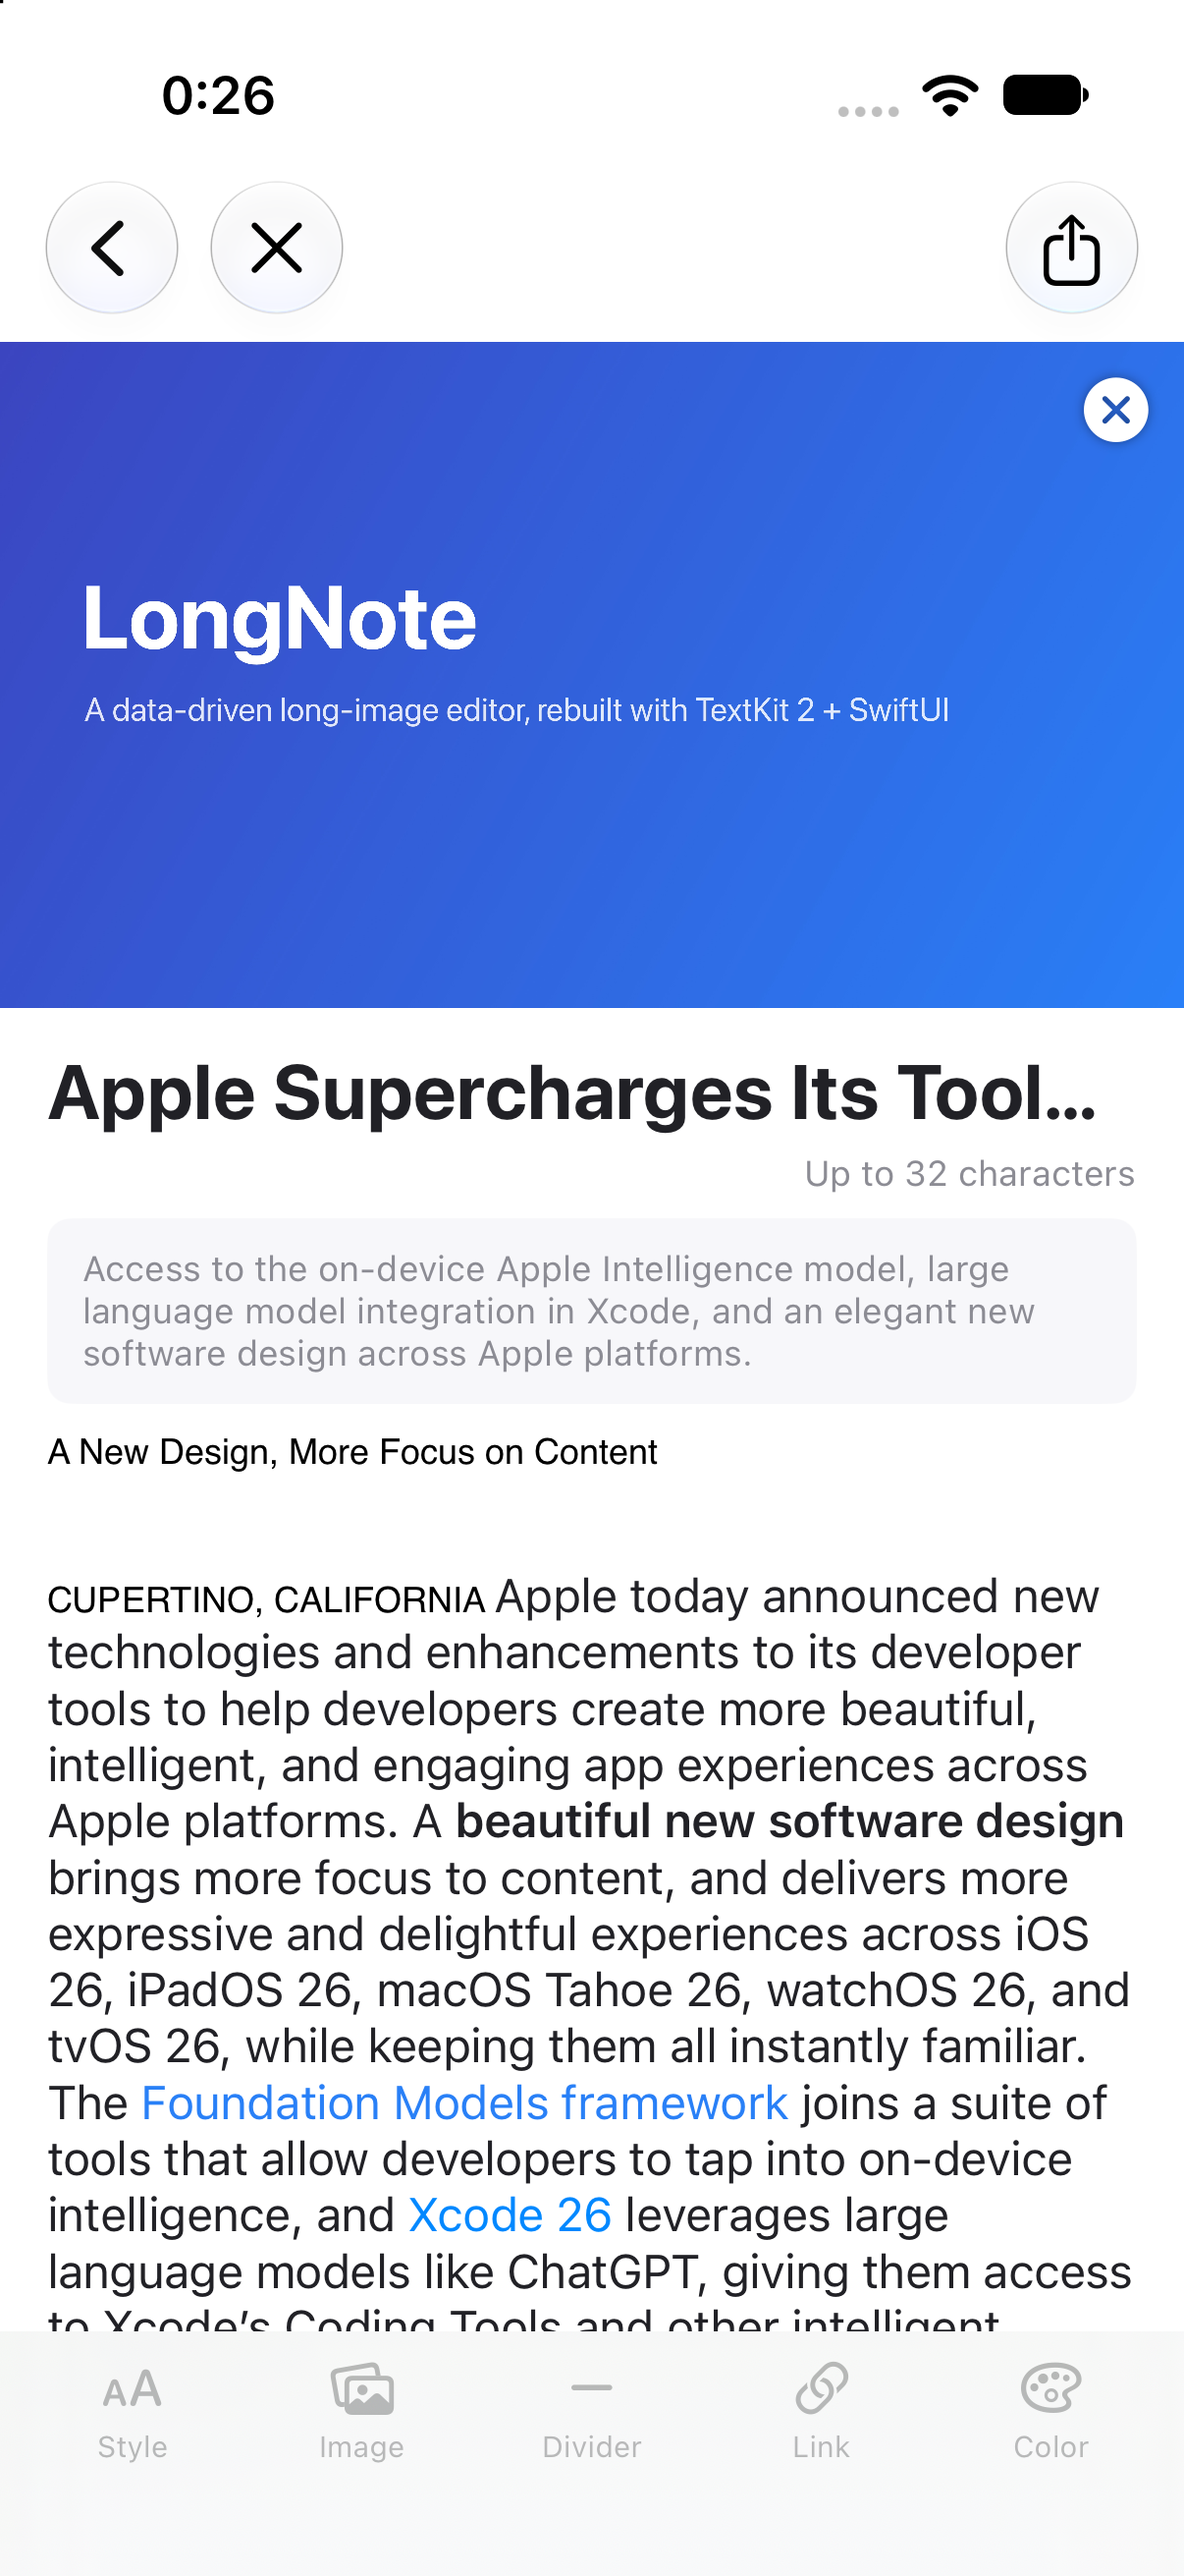
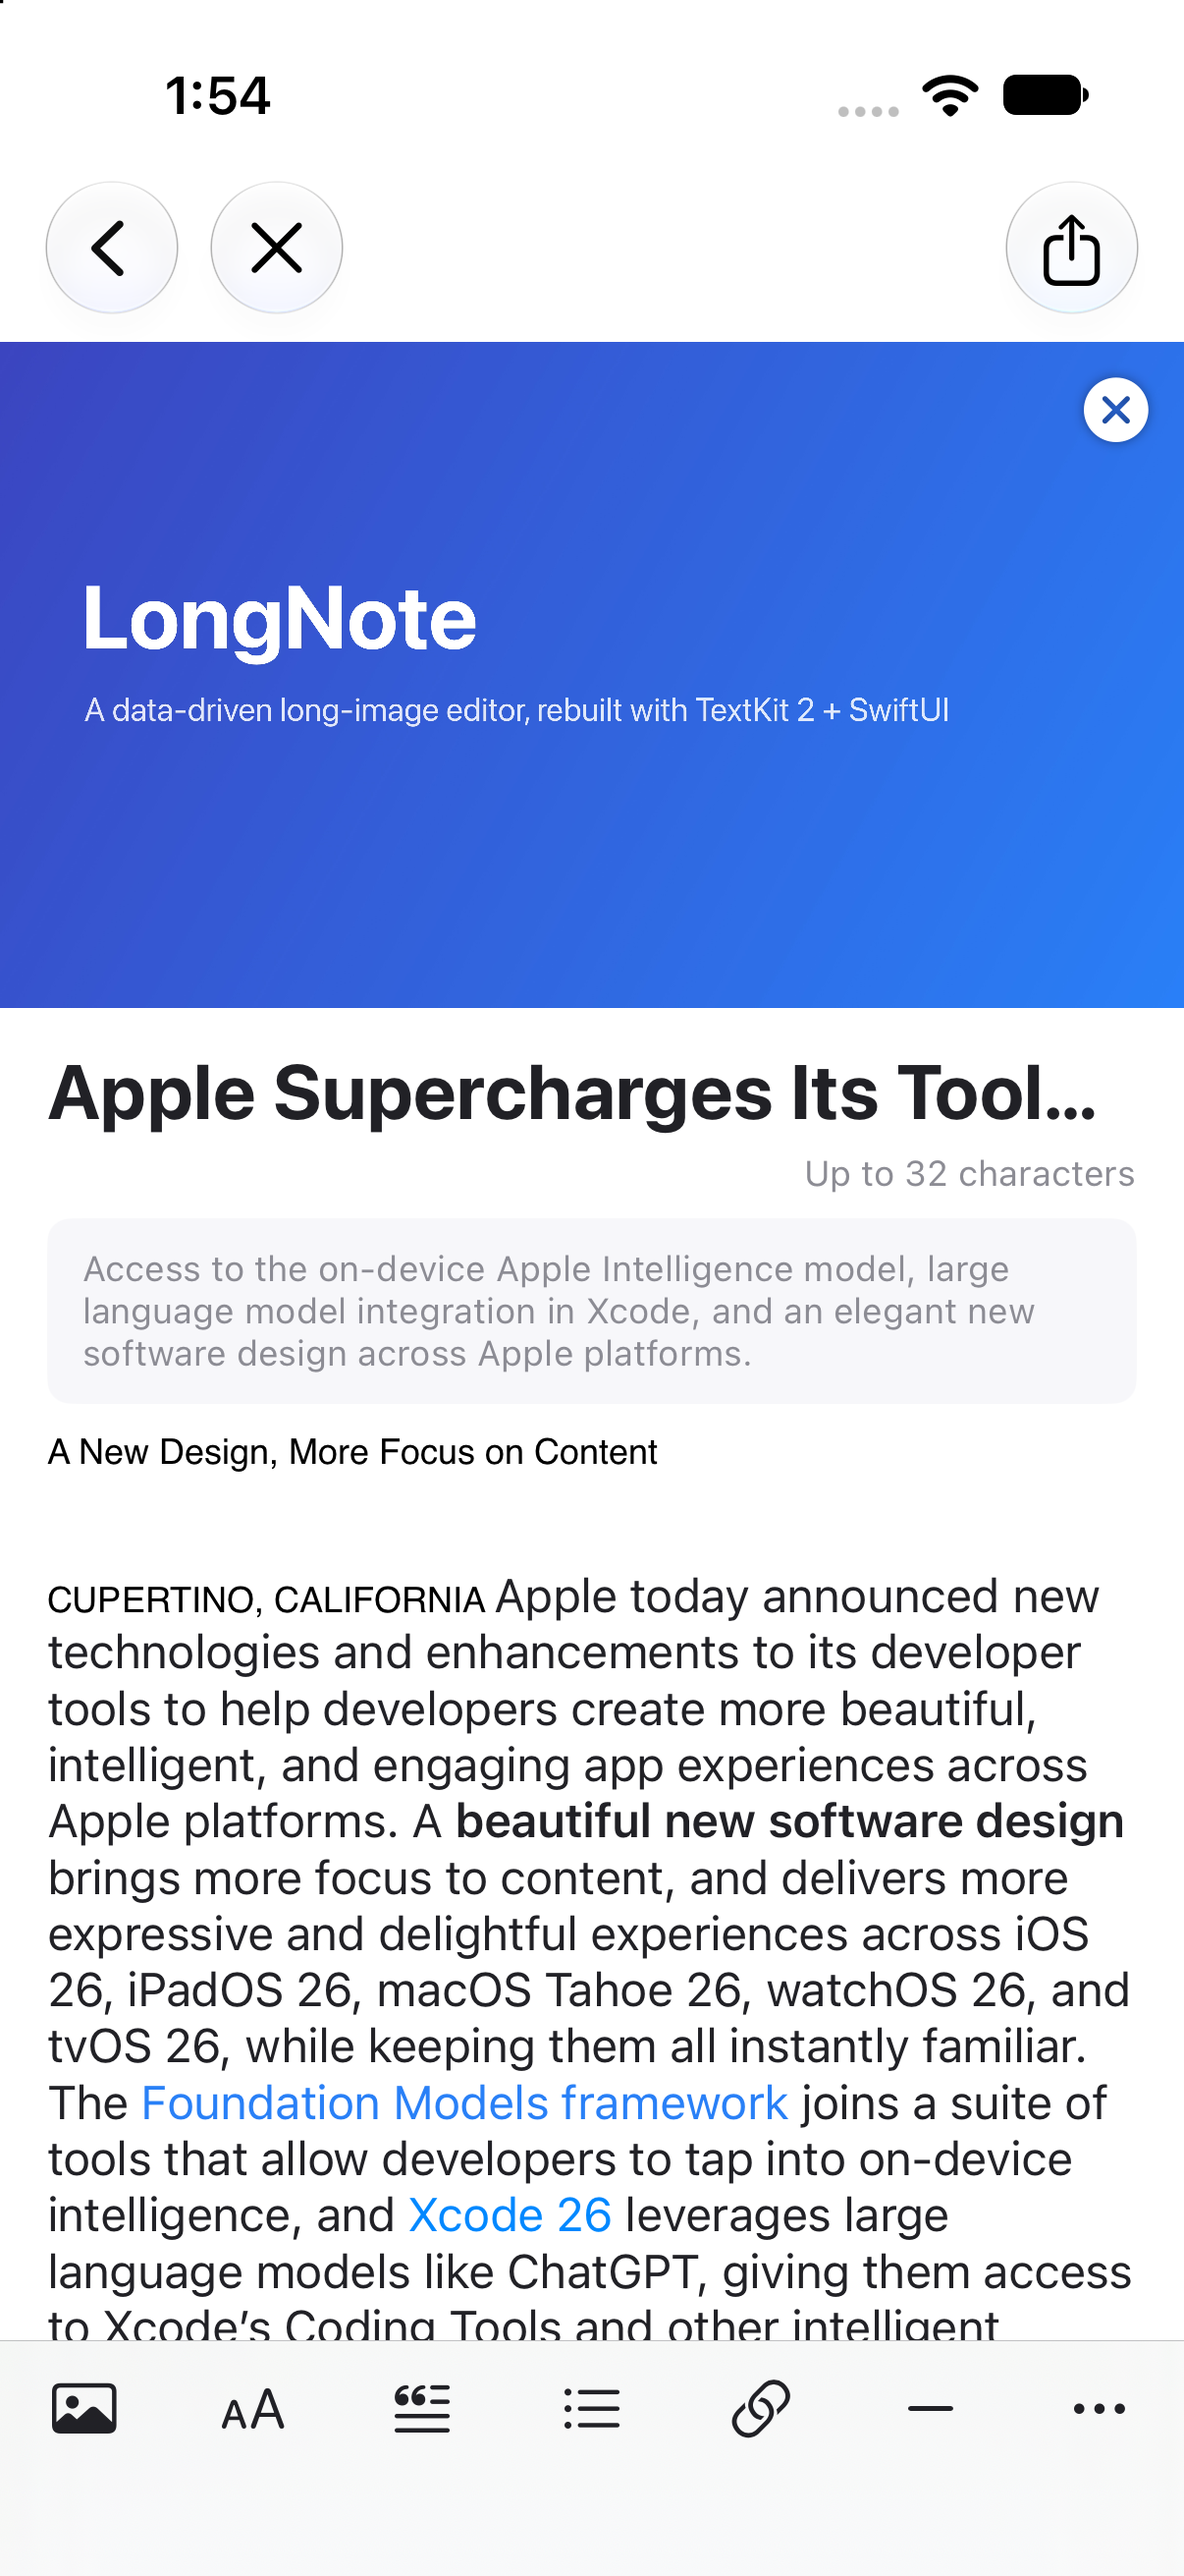
Rebuild the editor toolbar to match the original compose bar
The bottom bar now mirrors the original WeicoNote compose screen: seven
equal icon-only slots, 46 pt tall, in the original order — photo, form
(paragraph style), quote, list, link, divider, more — with SF Symbols
instead of the original artwork.

The selection bar keeps the original four equal slots (bold,
strikethrough, link, color) and shows the current text colour as a
swatch under the palette icon.

Toolbar actions fall back to the last text paragraph when nothing holds
the caret (the original's focuseOnLastLine), so the bar is never dead;
the previous icon+caption design and its disabled states are gone.

diff --git a/Sources/LongNote/Editor/EditorToolbar.swift b/Sources/LongNote/Editor/EditorToolbar.swift
@@ -3,15 +3,15 @@
   import PhotosUI
   import LongNoteCore
 
-  /// The main bottom toolbar: paragraph style menu, insert image, insert divider,
-  /// link, and text color. Every item pairs its SF Symbol with a short caption
-  /// so the bar is self-explanatory.
+  /// The main bottom toolbar — a faithful SwiftUI rebuild of the original
+  /// WeicoNote compose bar: seven equal icon-only slots (46 pt tall) in the
+  /// original order — photo, form (paragraph style), quote, list, link,
+  /// divider, more — with SF Symbols standing in for the original artwork.
   @MainActor
   struct EditorToolbar: View {
     let document: ArticleDocument
 
     @State private var selectedImageItem: PhotosPickerItem?
-    @State private var showColorPanel = false
     @State private var showLinkPrompt = false
     @State private var linkDraft = ""
     @State private var showImageLimitAlert = false
@@ -20,16 +20,30 @@
       document.focus.focusedParagraphID
     }
 
+    private var focusedKind: ParagraphKind? {
+      document.paragraph(focusedID)?.kind
+    }
+
+    /// The paragraph a toolbar action applies to. Falls back to the last text
+    /// paragraph, mirroring the original editor's `focuseOnLastLine`, so the
+    /// bar works even when nothing holds the caret.
+    private func targetID() -> Paragraph.ID? {
+      document.focus.focusedParagraphID ?? document.focusLastTextParagraph()
+    }
+
     var body: some View {
-      HStack(spacing: 4) {
-        styleMenu
+      HStack(spacing: 0) {
         imagePicker
-        dividerButton
+        styleMenu
+        quoteButton
+        listButton
         linkButton
-        colorButton
+        dividerButton
+        moreMenu
       }
-      .padding(.horizontal, 8)
-      .padding(.bottom, 4)
+      .frame(height: 46)
+      .background(.bar)
+      .overlay(alignment: .top) { Divider() }
       .onChange(of: selectedImageItem) { _, item in
         guard let item else { return }
         Task {
@@ -54,94 +68,122 @@
       .alert("Up to 30 images", isPresented: $showImageLimitAlert) {
         Button("OK", role: .cancel) {}
       }
-      .popover(isPresented: $showColorPanel, arrowEdge: .bottom) {
-        ColorPaletteView { color in
-          document.enqueueTextAction(.setColor(color))
-          showColorPanel = false
-        }
-        .frame(width: 260)
-        .presentationCompactAdaptation(.popover)
-      }
     }
 
-    // MARK: - Buttons
+    // MARK: - Slots (original order)
 
+    /// Photo — opens the system photo picker.
+    private var imagePicker: some View {
+      PhotosPicker(selection: $selectedImageItem, matching: .images) {
+        barIcon("photo")
+      }
+      .accessibilityLabel("Insert image")
+    }
+
+    /// Form — paragraph style menu (title / heading / body / quote / list).
     private var styleMenu: some View {
       Menu {
         ForEach(ParagraphKind.styleKinds, id: \.self) { kind in
           Button {
-            guard let id = focusedID else { return }
+            guard let id = targetID() else { return }
             document.setKind(kind, for: id)
           } label: {
-            Label(styleName(kind), systemImage: styleIcon(kind))
+            if focusedKind == kind {
+              Label(styleName(kind), systemImage: "checkmark")
+            } else {
+              Text(styleName(kind))
+            }
           }
         }
       } label: {
-        toolbarItem("textformat.size", caption: "Style")
+        barIcon("textformat.size")
       }
-      .disabled(focusedID == nil)
+      .accessibilityLabel("Paragraph style")
     }
 
-    private var imagePicker: some View {
-      PhotosPicker(selection: $selectedImageItem, matching: .images) {
-        toolbarItem("photo.on.rectangle.angled", caption: "Image")
-      }
-      .disabled(focusedID == nil)
-    }
-
-    private var dividerButton: some View {
+    /// Quote — toggles the block-quote style on the focused paragraph.
+    private var quoteButton: some View {
       Button {
-        guard let id = focusedID else { return }
-        document.insertDivider(after: id)
+        guard let id = targetID() else { return }
+        document.setKind(focusedKind == .quote ? .body : .quote, for: id)
       } label: {
-        toolbarItem("minus", caption: "Divider")
+        barIcon("text.quote", active: focusedKind == .quote)
       }
-      .disabled(focusedID == nil)
+      .accessibilityLabel("Quote")
     }
 
+    /// List — toggles the list style on the focused paragraph.
+    private var listButton: some View {
+      Button {
+        guard let id = targetID() else { return }
+        document.setKind(focusedKind == .list ? .body : .list, for: id)
+      } label: {
+        barIcon("list.bullet", active: focusedKind == .list)
+      }
+      .accessibilityLabel("List")
+    }
+
+    /// Link — attaches a URL to the current selection.
     private var linkButton: some View {
       Button {
-        guard focusedID != nil else { return }
+        guard targetID() != nil else { return }
         showLinkPrompt = true
       } label: {
-        toolbarItem("link", caption: "Link")
+        barIcon("link")
       }
-      .disabled(focusedID == nil)
+      .accessibilityLabel("Add link")
     }
 
-    private var colorButton: some View {
+    /// Line — inserts a divider below the focused paragraph.
+    private var dividerButton: some View {
       Button {
-        guard focusedID != nil else { return }
-        showColorPanel = true
+        guard let id = targetID() else { return }
+        document.insertDivider(after: id)
       } label: {
-        toolbarItem("paintpalette", caption: "Color")
+        barIcon("minus")
       }
-      .disabled(focusedID == nil)
+      .accessibilityLabel("Insert divider")
     }
 
-    /// One toolbar cell: SF Symbol above a small caption, filling its slot.
-    /// The icon box has a fixed height so thin symbols (e.g. `minus`) keep the
-    /// captions on one baseline.
-    private func toolbarItem(_ icon: String, caption: String) -> some View {
-      VStack(spacing: 3) {
-        Image(systemName: icon)
-          .font(.system(size: 17, weight: .medium))
-          .frame(height: 22)
-        Text(caption)
-          .font(.system(size: 10))
+    /// More — the original insert panel. The monetisation entries (tip / paid
+    /// reading) and "insert article" are publishing features outside this
+    /// library's scope, so the menu keeps the insertable pieces it supports.
+    private var moreMenu: some View {
+      Menu {
+        Button {
+          document.isPresentingSummary = true
+        } label: {
+          Label("Summary", systemImage: "text.alignleft")
+        }
+        Button {
+          guard let id = targetID() else { return }
+          document.insertDivider(after: id)
+        } label: {
+          Label("Divider", systemImage: "minus")
+        }
+      } label: {
+        barIcon("ellipsis")
       }
-      .frame(maxWidth: .infinity)
-      .accessibilityLabel(caption)
+      .accessibilityLabel("More")
     }
 
-    // MARK: - Helpers
+    // MARK: - Pieces
+
+    /// One icon-only slot that fills its share of the 46 pt bar.
+    private func barIcon(_ name: String, active: Bool = false) -> some View {
+      Image(systemName: name)
+        .font(.system(size: 19))
+        .foregroundStyle(active ? TextStyle.accentColor.color : TextStyle.textColor.color)
+        .frame(maxWidth: .infinity, maxHeight: .infinity)
+        .contentShape(Rectangle())
+    }
 
     private func insertPickedImage(_ data: Data) {
       guard document.article.imageCount < 30 else {
         showImageLimitAlert = true
         return
       }
-      guard let id = focusedID else { return }
+      guard let id = targetID() else { return }
       document.insertImage(data, after: id)
     }
 
@@ -152,16 +194,6 @@
       case .quote: return "Quote"
       case .list: return "List"
       default: return "Body"
-      }
-    }
-
-    private func styleIcon(_ kind: ParagraphKind) -> String {
-      switch kind {
-      case .title: return "textformat.size.larger"
-      case .header: return "textformat.size"
-      case .quote: return "text.quote"
-      case .list: return "list.bullet"
-      default: return "textformat"
       }
     }
   }

diff --git a/Sources/LongNote/Editor/SelectedToolbar.swift b/Sources/LongNote/Editor/SelectedToolbar.swift
@@ -3,9 +3,10 @@
   import UIKit
   import LongNoteCore
 
-  /// Floating selection toolbar shown while text is selected: bold, strikethrough,
-  /// color, and link. Button active states reflect the attributes at the selection
-  /// start (`document.focusedSelectionAttributes`).
+  /// The selection bar that slides in above the main toolbar while text is
+  /// selected — four equal slots (46 pt tall) in the original order: bold,
+  /// strikethrough, link, color. The color slot carries a small swatch of the
+  /// current text color, as the original did.
   @MainActor
   struct SelectedToolbar: View {
     let document: ArticleDocument
@@ -28,28 +29,47 @@
       document.focusedSelectionAttributes[.link] != nil
     }
 
+    private var currentColor: Color {
+      (document.focusedSelectionAttributes[.foregroundColor] as? UIColor).map(Color.init)
+        ?? TextStyle.textColor.color
+    }
+
     var body: some View {
-      HStack(spacing: 20) {
-        button("bold", isActive: isBold) {
+      HStack(spacing: 0) {
+        Button {
           document.enqueueTextAction(.toggleBold)
+        } label: {
+          barIcon("bold", active: isBold)
         }
-        button("strikethrough", isActive: isStrikethrough) {
+        .accessibilityLabel("Bold")
+
+        Button {
           document.enqueueTextAction(.toggleStrikethrough)
+        } label: {
+          barIcon("strikethrough", active: isStrikethrough)
         }
-        button("paintpalette", isActive: false) {
-          showColorPanel = true
-        }
-        button("link", isActive: hasLink) {
+        .accessibilityLabel("Strikethrough")
+
+        Button {
           if hasLink {
             document.enqueueTextAction(.setLink(nil))
           } else {
             showLinkPrompt = true
           }
+        } label: {
+          barIcon("link", active: hasLink)
         }
+        .accessibilityLabel("Link")
+
+        Button {
+          showColorPanel = true
+        } label: {
+          colorIcon
+        }
+        .accessibilityLabel("Text color")
       }
-      .font(.system(size: 20))
-      .frame(maxWidth: .infinity)
-      .padding(.vertical, 2)
+      .frame(height: 46)
+      .background(.bar)
       .popover(isPresented: $showColorPanel, arrowEdge: .bottom) {
         ColorPaletteView { color in
           document.enqueueTextAction(.setColor(color))
@@ -72,12 +92,32 @@
       }
     }
 
-    private func button(_ icon: String, isActive: Bool, action: @escaping () -> Void) -> some View {
-      Button(action: action) {
-        Image(systemName: icon)
-          .foregroundStyle(isActive ? TextStyle.accentColor.color : TextStyle.textColor.color)
+    // MARK: - Pieces
+
+    private func barIcon(_ name: String, active: Bool) -> some View {
+      Image(systemName: name)
+        .font(.system(size: 19))
+        .foregroundStyle(active ? TextStyle.accentColor.color : TextStyle.textColor.color)
+        .frame(maxWidth: .infinity, maxHeight: .infinity)
+        .contentShape(Rectangle())
+    }
+
+    /// Palette symbol with the current text color shown as a swatch beneath it.
+    private var colorIcon: some View {
+      VStack(spacing: 3) {
+        Image(systemName: "paintpalette")
+          .font(.system(size: 19))
+        RoundedRectangle(cornerRadius: 1.5)
+          .fill(currentColor)
+          .frame(width: 18, height: 4)
+          .overlay(
+            RoundedRectangle(cornerRadius: 1.5)
+              .strokeBorder(Color.primary.opacity(0.15), lineWidth: 0.5)
+          )
       }
-      .accessibilityLabel(icon)
+      .foregroundStyle(TextStyle.textColor.color)
+      .frame(maxWidth: .infinity, maxHeight: .infinity)
+      .contentShape(Rectangle())
     }
   }
 #endif

diff --git a/Sources/LongNote/Editor/ArticleDocument.swift b/Sources/LongNote/Editor/ArticleDocument.swift
@@ -94,6 +94,16 @@
 
     // MARK: - Toolbar actions
 
+    /// Focus the last editable paragraph, mirroring the original editor's
+    /// `focuseOnLastLine` — toolbar buttons stay usable even when no paragraph
+    /// currently holds the caret.
+    @discardableResult
+    public func focusLastTextParagraph() -> Paragraph.ID? {
+      guard let last = article.paragraphs.last(where: { $0.kind.isTextKind }) else { return nil }
+      focus.focus(last.id, selection: NSRange(location: 0, length: 0))
+      return last.id
+    }
+
     /// Change a paragraph's kind (H1 / H2 / body / quote / list). The paragraph
     /// view also restyles the whole text to the kind's base font/color.
     public func setKind(_ kind: ParagraphKind, for id: Paragraph.ID) {

diff --git a/Sources/LongNote/Editor/ArticleEditorView.swift b/Sources/LongNote/Editor/ArticleEditorView.swift
@@ -94,14 +94,13 @@
     // MARK: - Toolbar
 
     private var toolbar: some View {
-      VStack(spacing: 6) {
+      VStack(spacing: 0) {
         if document.hasSelectedText {
           SelectedToolbar(document: document)
+          Divider()
         }
         EditorToolbar(document: document)
       }
-      .padding(.top, 8)
-      .background(.bar)
     }
 
     private func scrollTo(_ id: Paragraph.ID, using proxy: ScrollViewProxy) {
